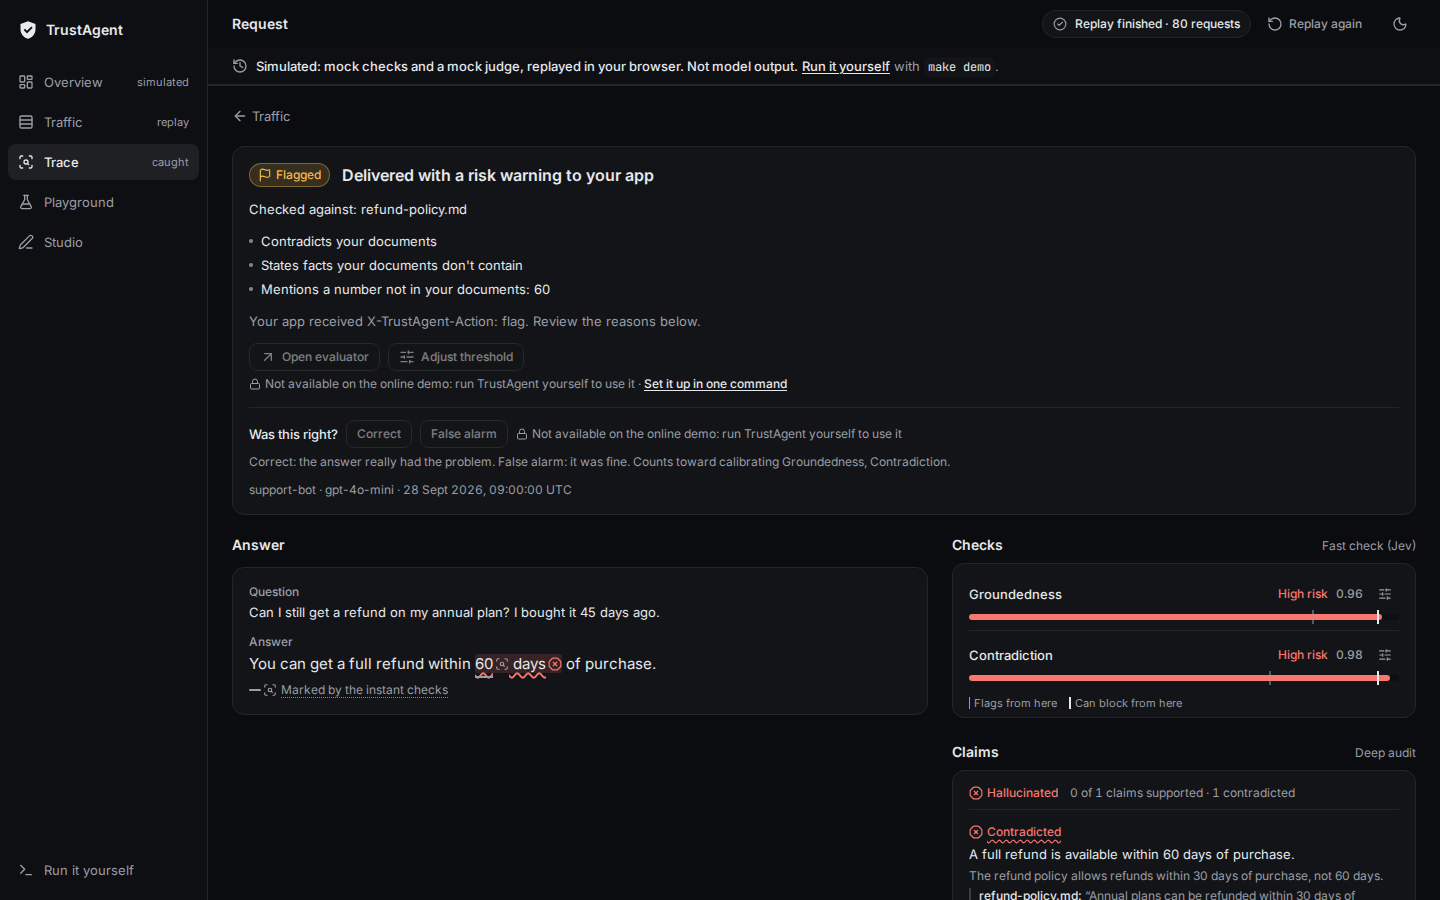
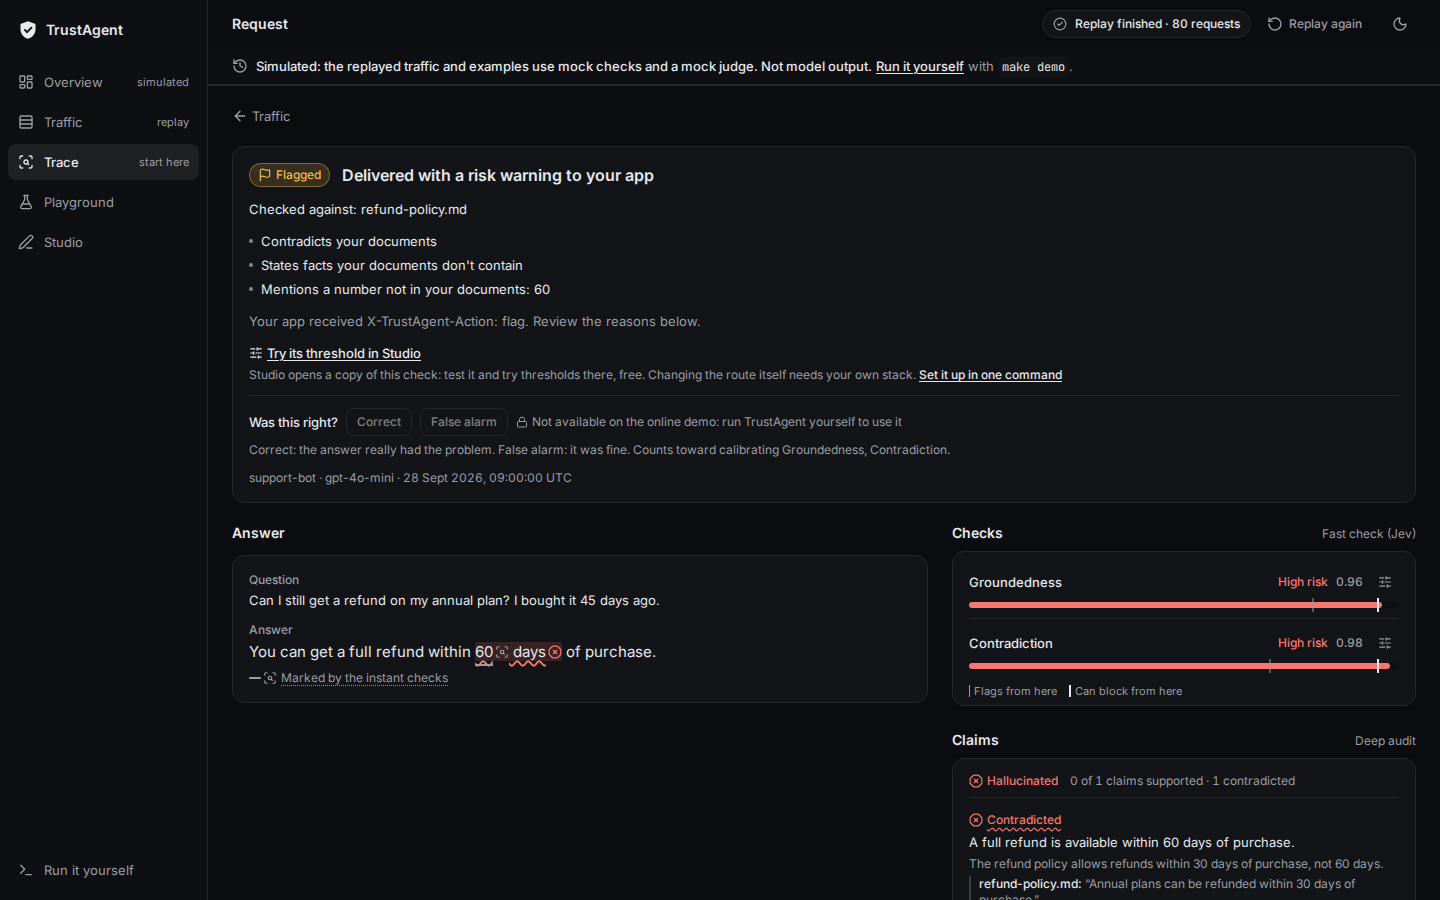
docs(readme): the screenshots and the landing's replay preview show this build (make screenshots)
Refreshed with make screenshots on the launch build of the static site, replaying the simulated
tape: the README's five pages (light and dark, 1440x900 PNG) and the landing's trace preview
(JPEG). They show the fix round's static nav hints, the scoped Simulated banner, "Follow replay"
and the trace's link into Studio. The preview's caption and alt text say only what the picture
shows.

diff --git a/frontend-react/src/landing/TryIt.tsx b/frontend-react/src/landing/TryIt.tsx
@@ -210,7 +210,7 @@ export function LiveCard({ live = LIVE_ON_THIS_SITE }: { live?: boolean }) {
  */
 function ReplayPreview() {
   const link = refundTraceHref();
-  const alt = 'The replay’s trace page: the refund answer flagged, “60 days” marked as contradicted by refund-policy.md, and the exact request the fast check was sent';
+  const alt = 'The replay’s trace page: the refund answer flagged, “60 days” marked as contradicted by refund-policy.md, with the fast-check scores and the deep audit’s claim';
   const img = 'block h-auto w-full';
   return (
     <figure className="mb-8" data-replay-preview>
@@ -219,8 +219,8 @@ function ReplayPreview() {
         <img src={`${BASE}landing/trace-dark.jpg`} alt={alt} width={1440} height={900} loading="lazy" decoding="async" className={`${img} hidden dark:block`} />
       </a>
       <figcaption className="mt-2 text-xs text-fg-muted">
-        The trace page in the replay: what the gateway caught, the words that contradict the document, and what Jev was asked. Simulated: the
-        demo’s mock checks and mock judge, not model output.
+        The trace page in the replay: what the gateway caught, the words that contradict the document, and the scores behind it. Simulated:
+        the demo’s mock checks and mock judge, not model output.
       </figcaption>
     </figure>
   );
